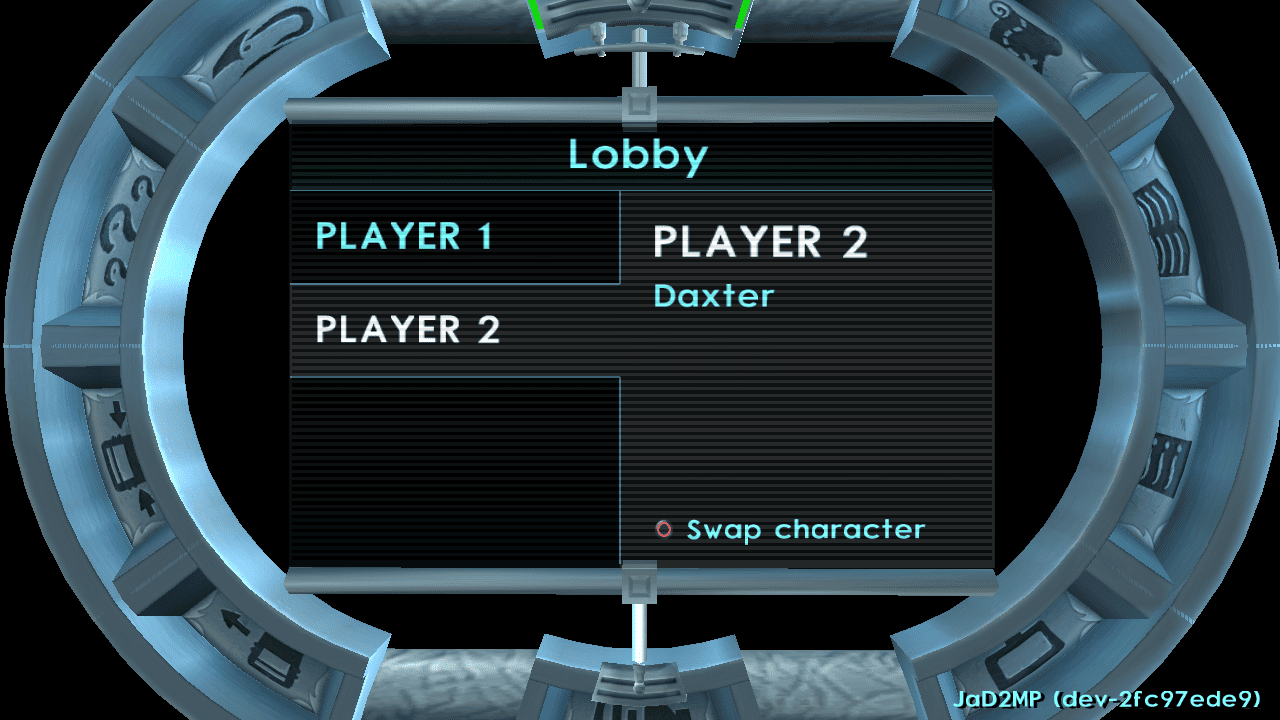
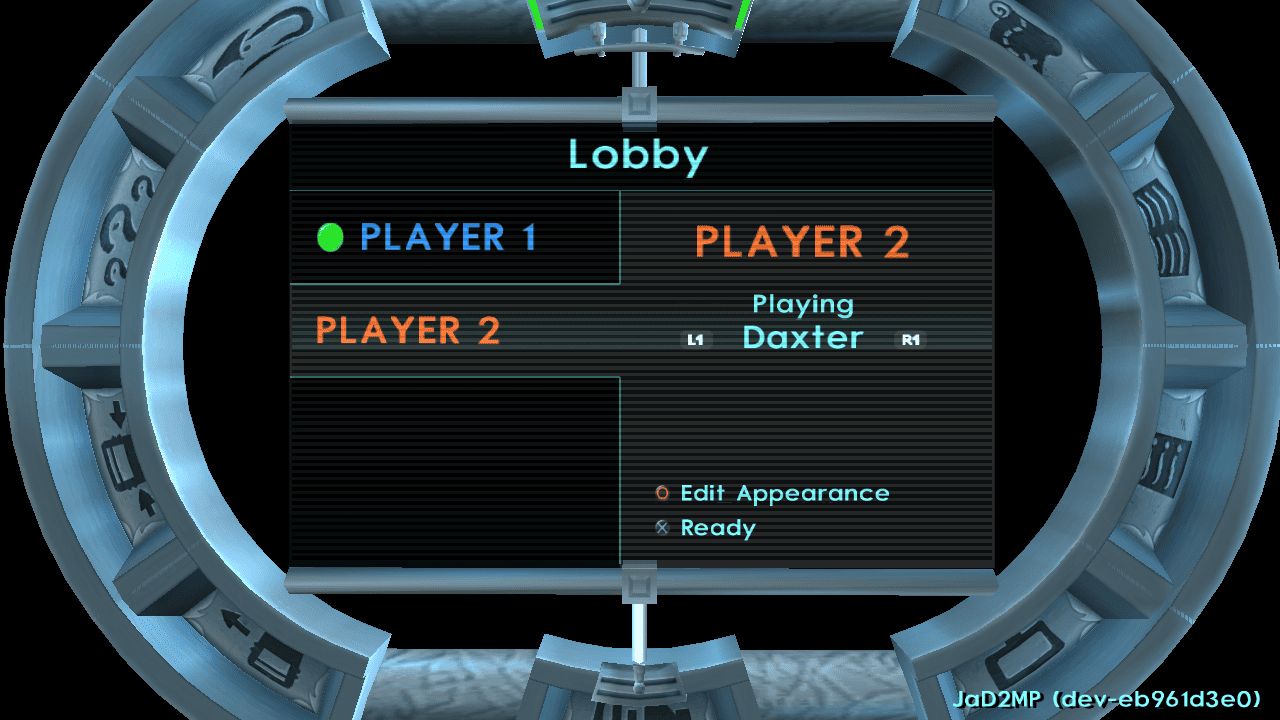
chore: update readme/disclaimer

diff --git a/README.md b/README.md
@@ -16,6 +16,19 @@ The goal is to make the full Jak II campaign playable together.<br>
 Currently this mod primarily serves as a Co-op mod, when the Campaign is in a finished state, more gamemodes are going to be supported as well.<br>
 If at least the Host is in debug mode then a lot of constraints I've put in to block progression can be bypassed.
 
+## Terminology
+
+### Invite
+
+- **IMPORTANT**: The invite will contain your public IP address, so be careful who you're sharing it with.
+- An **Invite** is a **URI** you can easily copy and share with your friends, whom if they have it on their clipboard, can just click a button to join your session.
+- It can only be obtained as the Host, and only if your port is successfully opened. The **Invite** contains your public IP address and the Port you're hosting on, and also the session **Room Code**, which is automatically generated if it's not set in the **Multiplayer Options**
+- Example: `jad2mp://1.1.1.1:26210/1A2B3C`
+
+### Room Code
+- A six character code that can contain uppercase letters (`A-Z`) and digits (`0-9`), which is used as your session's "password". It is only used as a protection for Online Sessions, it's not needed for LAN.
+- Example: `1A2B3C`
+
 ## Before You Play
 
 - The mod was mainly tested with the NTSC-U (`SCUS-97265`) version of the game. If you notice bugs please record what version you were using.
@@ -26,16 +39,19 @@ If at least the Host is in debug mode then a lot of constraints I've put in to b
 - The default game port is `26210` which can be configured in the **Multiplayer Settings**
 - Port `26211` is reserved for LAN discovery
 
-## Terminology
+### Good to know
 
-### Invite
-- An **Invite** is a **URI** you can easily copy and share with your friends, whom if they have it on their clipboard, can just click a button to join your session.
-- It can only be obtained as the Host, and only if your port is successfully opened. The **Invite** contains your public IP address and the Port you're hosting on, and also the session **Room Code**, which is automatically generated if it's not set in the **Multiplayer Options**
-- Example: `jad2mp://1.1.1.1:26210/1A2B3C`
+#### Changing your in-game name
+- To change your name you have to go into **Options** -> **Multiplayer Options**
+- Press <img src="docs/img/common/dpad-x.png" alt="PS2 X button" width="16"> to select the **Username** field, and using your keyboard you're free to type in a maximum of 16 characters as your name.
 
-### Room Code
-- A six character code that can contain uppercase letters (`A-Z`) and digits (`0-9`), which is used as your session's "password". It is only used as a protection for Online Sessions, it's not needed for LAN. 
-- Example: `1A2B3C`
+#### Changing your appearance
+- You can edit the color your name and map marker will appear in under **Options** -> **Multiplayer Options** -> **Edit Appearance**<br> or in the **Lobby** by pressing <img src="docs/img/common/dpad-circle.png" alt="PS2 Circle button" width="16">
+- You're also free to customize the colors of your Jak or Daxter avatar
+
+#### Custom keybinds
+- **SELECT** - While in game you can press it to show the player list, and also the nametags above each player.
+- L1 + <img src="docs/img/common/dpad-triangle.png" alt="PS2 X button" width="16"> - While near an empty vehicle will get you into it's passenger seat.
 
 ## Hosting A Game
 
@@ -60,11 +76,12 @@ If at least the Host is in debug mode then a lot of constraints I've put in to b
    <img src="docs/img/mp/host-lobby-lan.png" alt="Host in lobby with NAT LAN" width="400">
 
   - In the **Lobby** you can wait for the other players to join, or just start the game, since the mod supports late joiners mid game also. 
-  - As **Host** you also have the ability to Swap between Jak and Daxter with <img src="docs/img/common/dpad-circle.png" alt="PS2 Circle button" width="16"><br>
-  - If you have your game port successful opened then you can press <img src="docs/img/common/dpad-x.png" alt="PS2 X button" width="16"> to copy an invite which will contain your public ip and port, with your custom or generated **Room Code**. You can share this to your friends who then can use it to join easily.
+  - As **Host** you also have the ability to Swap between playing **Jak** or **Daxter** with **R1** and **L1**<br>
+  - If you have your game port successful opened then you can press <img src="docs/img/common/dpad-square.png" alt="PS2 Square button" width="16"> to copy an invite which will contain your public ip and port, with your custom or generated **Room Code**. You can share this to your friends who then can use it to join easily.
   - If the port isn't open and you see **NAT: Strict/LAN** or you Hosted **LAN** and see **NAT: LAN** then you can only copy a **Room Code** which is not required in case you want to play via **LAN**
+  - The game can only be started after each player has readied up
 
-### Once you press <img src="docs/img/common/dpad-square.png" alt="PS2 Square button" width="16"> everyone in the lobby be will put inside the game
+### Once you press <img src="docs/img/common/dpad-x.png" alt="PS2 x button" width="16"> everyone in the lobby be will put inside the game
 
    <img src="docs/img/mp/host-in-game.png" alt="Host player in game after connection" width="400">
 
@@ -109,7 +126,9 @@ If at least the Host is in debug mode then a lot of constraints I've put in to b
 
    <img src="docs/img/mp/client-lobby.png" alt="In the lobby as a Client" width="400">
 
-- As the Client we also have the ability to switch the Character we want to play as by pressing <img src="docs/img/common/dpad-circle.png" alt="PS2 Circle button" width="16">
+- As the Client you also have the ability to switch the Character you want to play as by pressing **L1** or **R1**
+- You can edit your appearance in the lobby by pressing <img src="docs/img/common/dpad-circle.png" alt="PS2 Circle button" width="16"> also
+- These options are disabled if you've readied up, if you change your mind you must unready first
 
 ## Local Split Screen
 
